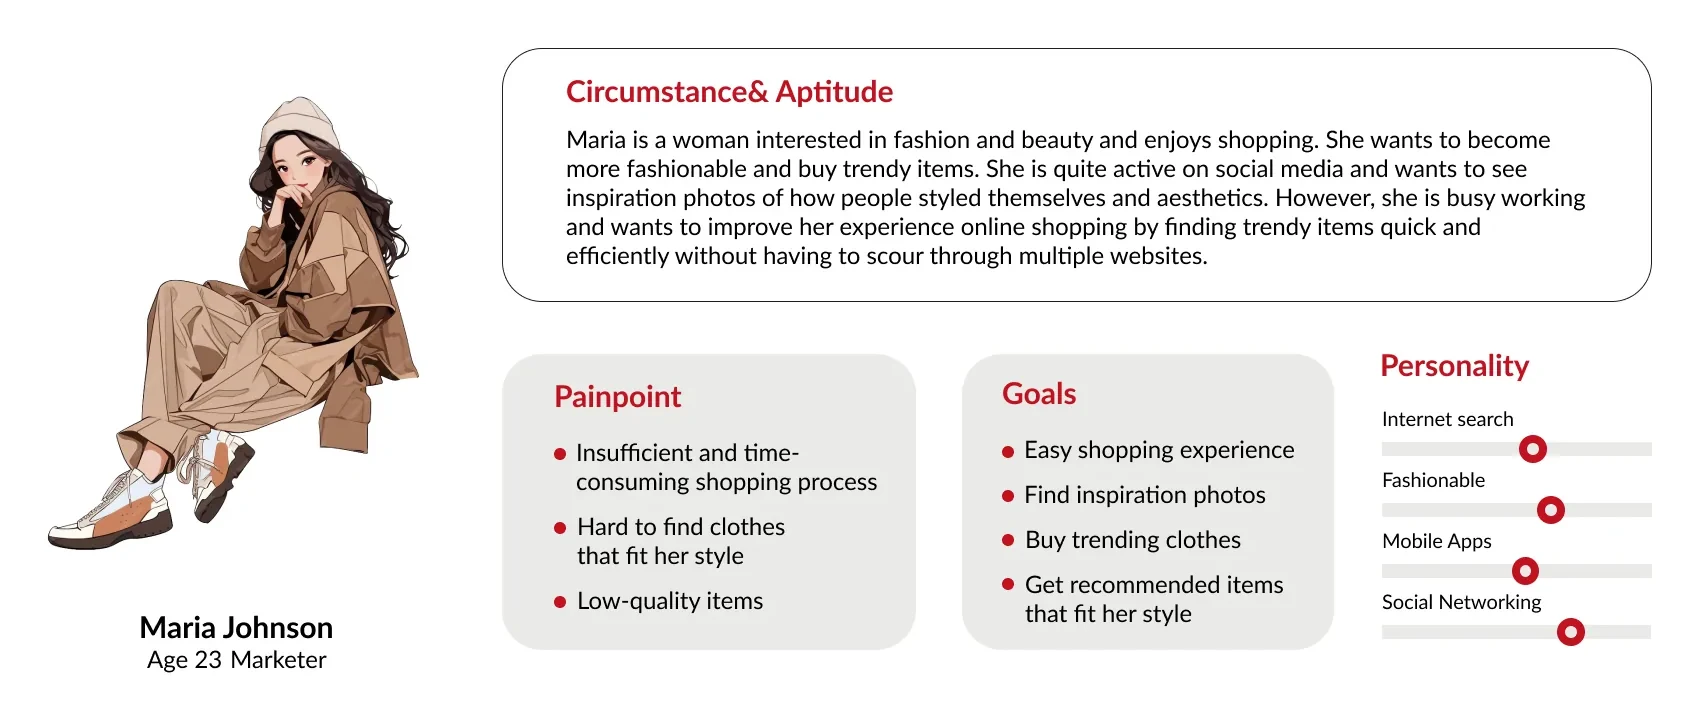
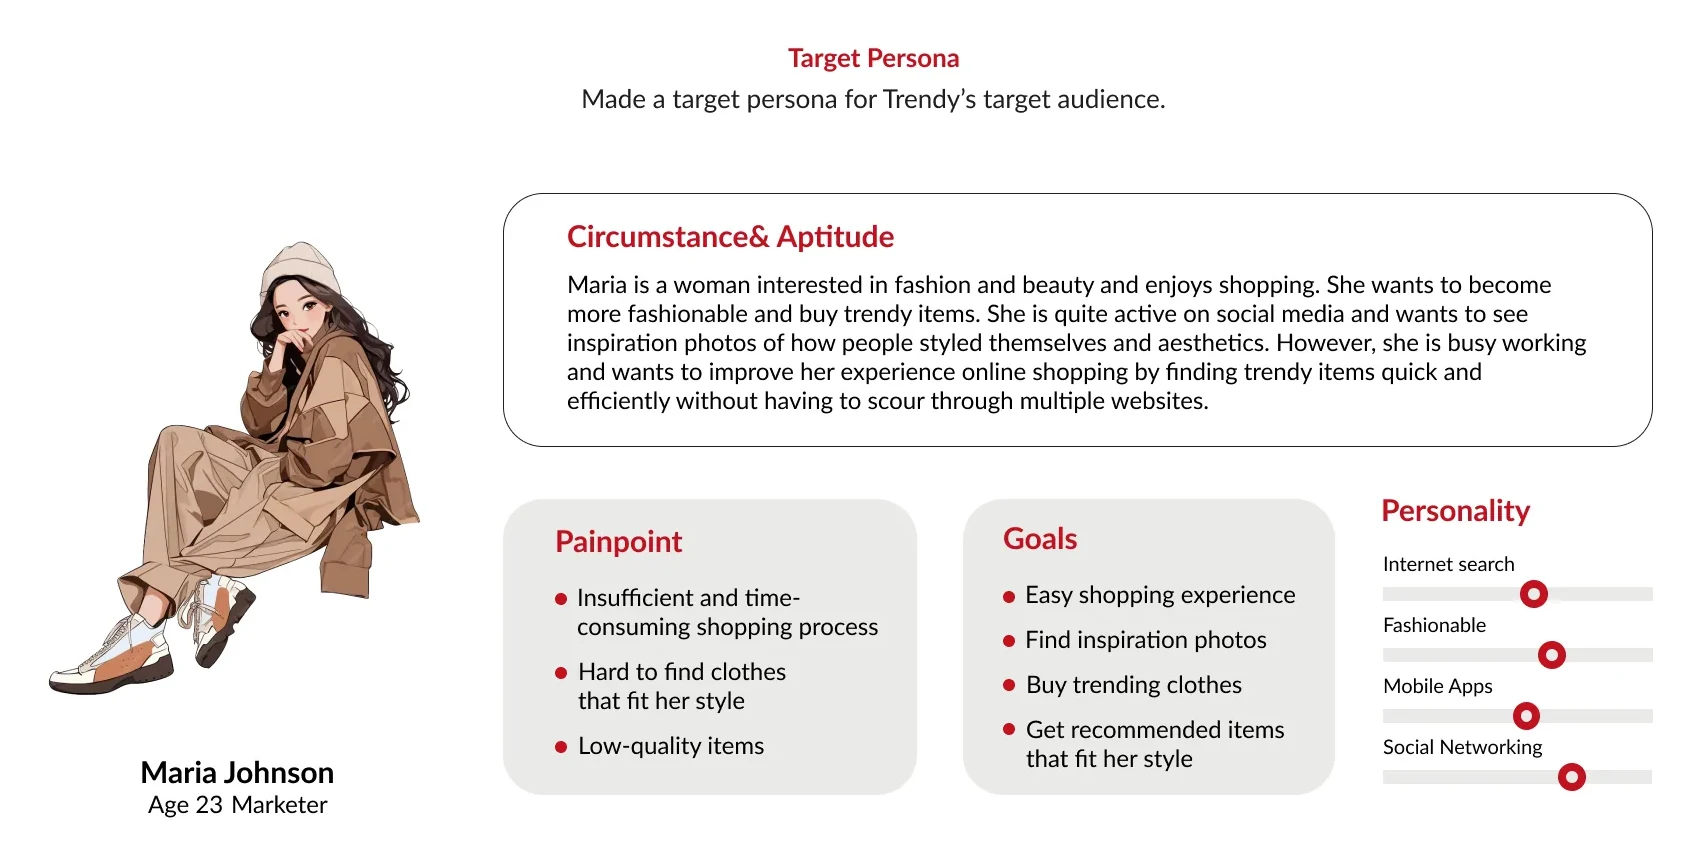
Trendy: keep section titles in the board crops; Now Institute strip drops old site
- Re-crops Brand, Persona, As-is/To-be, Competitor research and Journey map
  to include each section's title and subtitle from the case study board.
- UX page: Now Institute's thumbnail strip no longer shows the old website.

Claude-Session: https://claude.ai/code/session_01XrSCNk8CdZFL88DQkgrBgR

diff --git a/ux.html b/ux.html
@@ -27,7 +27,7 @@
 <main class="page page-page" id="ux">
 <div class="page-content">
 <header class="cs-head"><h1 class="cs-title">UX Design<span class="dot">.</span></h1><p class="cs-sub">Case studies in research, product design and building, from internships, leadership roles and team projects.</p></header>
-<div class="gproj-list gproj-list--stack"><a class="gproj" href="now-institute.html"><div class="gproj-cover gproj-cover--bleed" style="aspect-ratio:2000/1060"><img alt="Now Institute cover" loading="lazy" onerror="this.hidden=true" src="images/index/01-screenshot-2026-07-07-at-2.21.54pm.webp"/></div><div class="gproj-txt"><span class="gproj-n">(01)</span><h2 class="gproj-t">Now Institute</h2><p class="gproj-sub">Two websites for Morphosis Architects’ urban research wing</p><p class="gproj-d">Designed and vibe-coded Noto Now and the Now Institute site, from research on every project to two live launches.</p><dl class="gproj-meta"><dt>Year</dt><dd>May – Jul 2026</dd><dt>Role</dt><dd>UX Design Intern, Morphosis</dd><dt>Tools</dt><dd>Figma, Claude Code, Vercel</dd></dl><div class="gproj-strip" style="grid-template-columns:178.97fr 177.78fr 166.67fr"><img alt="" loading="lazy" src="images/now-institute/03-screenshot-1778536857657.png" style="aspect-ratio:1.7897"/><img alt="" loading="lazy" src="images/now-institute/02-screenshot-2026-07-13-at-3.52.46pm.webp" style="aspect-ratio:1.7778"/><img alt="" loading="lazy" src="images/now-institute/04-notonow.png" style="aspect-ratio:1.6667"/></div><span class="gproj-go">View case study →</span></div></a><a class="gproj" href="hfes-stg.html"><div class="gproj-cover gproj-cover--bleed" style="aspect-ratio:2000/1000"><img alt="HFES STG cover" loading="lazy" onerror="this.hidden=true" src="images/index/cover-hfes-stg.webp"/></div><div class="gproj-txt"><span class="gproj-n">(02)</span><h2 class="gproj-t">HFES STG</h2><p class="gproj-sub">A website for the Sustainability Technical Group</p><p class="gproj-d">Led a volunteer team from a 200+ member survey through card sorting, testing and launch.</p><dl class="gproj-meta"><dt>Year</dt><dd>Aug 2025 – May 2026</dd><dt>Role</dt><dd>Website Lead</dd><dt>Methods</dt><dd>Survey, card sort, usability tests</dd></dl><div class="gproj-strip" style="grid-template-columns:196.46fr 133.78fr"><img alt="" loading="lazy" src="images/hfes-stg/04-screenshot-2026-03-27-at-3.34.46pm.png" style="aspect-ratio:1.9646"/><img alt="" loading="lazy" src="images/hfes-stg/06-wireframes.png" style="aspect-ratio:1.3378"/></div><span class="gproj-go">View case study →</span></div></a><a class="gproj" href="migrant-compass.html"><div class="gproj-cover gproj-cover--bleed" style="aspect-ratio:1920/940"><img alt="Migrant Compass cover" loading="lazy" onerror="this.hidden=true" src="images/index/05-title-page1.webp?v=2"/></div><div class="gproj-txt"><span class="gproj-n">(03)</span><h2 class="gproj-t">Migrant Compass</h2><p class="gproj-sub">Real-time guidance for migrants</p><p class="gproj-d">An offline-ready app giving migrants verified safety updates and resources, built at the IDEA Lab @ Fletcher.</p><dl class="gproj-meta"><dt>Year</dt><dd>Sep – Nov 2025</dd><dt>Role</dt><dd>UX research & design</dd><dt>Tools</dt><dd>Figma</dd></dl><div class="gproj-strip" style="grid-template-columns:50.96fr 51.02fr 51.02fr 45.40fr"><img alt="" loading="lazy" src="images/migrant-compass/06-migrant-compass-mobile-app-wireframe.png" style="aspect-ratio:0.5096"/><img alt="" loading="lazy" src="images/migrant-compass/15-migrant-compass-mobile-app-wireframe.png" style="aspect-ratio:0.5102"/><img alt="" loading="lazy" src="images/migrant-compass/19-w.png" style="aspect-ratio:0.5102"/><img alt="" loading="lazy" src="images/migrant-compass/21-4.png" style="aspect-ratio:0.4540"/></div><span class="gproj-go">View case study →</span></div></a><a class="gproj" href="travel-mate.html"><div class="gproj-cover gproj-cover--bleed" style="aspect-ratio:2000/1060"><img alt="Travel Mate cover" loading="lazy" onerror="this.hidden=true" src="images/index/cover-travel-mate.webp?v=3"/></div><div class="gproj-txt"><span class="gproj-n">(04)</span><h2 class="gproj-t">Travel Mate</h2><p class="gproj-sub">Group travel planning app</p><p class="gproj-d">Search, shared itineraries and expenses for planning a Korea trip with friends, designed with developers.</p><dl class="gproj-meta"><dt>Year</dt><dd>Sep – Dec 2024</dd><dt>Role</dt><dd>UX design, design system</dd><dt>Team</dt><dd>3 designers, 2 developers</dd></dl><div class="gproj-strip" style="grid-template-columns:83.95fr 78.85fr 134.05fr"><img alt="" loading="lazy" src="images/travel-mate/08-ia.png" style="aspect-ratio:0.8395"/><img alt="" loading="lazy" src="images/travel-mate/31-sheet-stay-dates.webp" style="aspect-ratio:0.7885"/><img alt="" loading="lazy" src="images/travel-mate/32-sheet-trip-dates.webp" style="aspect-ratio:1.3405"/></div><span class="gproj-go">View case study →</span></div></a><a class="gproj" href="trendy.html"><div class="gproj-cover gproj-cover--bleed" style="aspect-ratio:1500/734"><img alt="Trendy cover" loading="lazy" onerror="this.hidden=true" src="images/trendy/01-trendy.webp?v=2"/></div><div class="gproj-txt"><span class="gproj-n">(05)</span><h2 class="gproj-t">Trendy</h2><p class="gproj-sub">Beauty & fashion trend app</p><p class="gproj-d">A solo project taking a trend-shopping app from interviews and competitor research to brand and UI.</p><dl class="gproj-meta"><dt>Year</dt><dd>Jun – Aug 2024</dd><dt>Role</dt><dd>Solo designer</dd><dt>Methods</dt><dd>Interviews, journey map</dd></dl><div class="gproj-strip" style="grid-template-columns:235.78fr 167.52fr"><img alt="" loading="lazy" src="images/trendy/05-persona.webp" style="aspect-ratio:2.3578"/><img alt="" loading="lazy" src="images/trendy/10-final-screens.webp" style="aspect-ratio:1.6752"/></div><span class="gproj-go">View case study →</span></div></a></div>
+<div class="gproj-list gproj-list--stack"><a class="gproj" href="now-institute.html"><div class="gproj-cover gproj-cover--bleed" style="aspect-ratio:2000/1060"><img alt="Now Institute cover" loading="lazy" onerror="this.hidden=true" src="images/index/01-screenshot-2026-07-07-at-2.21.54pm.webp"/></div><div class="gproj-txt"><span class="gproj-n">(01)</span><h2 class="gproj-t">Now Institute</h2><p class="gproj-sub">Two websites for Morphosis Architects’ urban research wing</p><p class="gproj-d">Designed and vibe-coded Noto Now and the Now Institute site, from research on every project to two live launches.</p><dl class="gproj-meta"><dt>Year</dt><dd>May – Jul 2026</dd><dt>Role</dt><dd>UX Design Intern, Morphosis</dd><dt>Tools</dt><dd>Figma, Claude Code, Vercel</dd></dl><div class="gproj-strip" style="grid-template-columns:177.78fr 166.67fr"><img alt="" loading="lazy" src="images/now-institute/02-screenshot-2026-07-13-at-3.52.46pm.webp" style="aspect-ratio:1.7778"/><img alt="" loading="lazy" src="images/now-institute/04-notonow.png" style="aspect-ratio:1.6667"/></div><span class="gproj-go">View case study →</span></div></a><a class="gproj" href="hfes-stg.html"><div class="gproj-cover gproj-cover--bleed" style="aspect-ratio:2000/1000"><img alt="HFES STG cover" loading="lazy" onerror="this.hidden=true" src="images/index/cover-hfes-stg.webp"/></div><div class="gproj-txt"><span class="gproj-n">(02)</span><h2 class="gproj-t">HFES STG</h2><p class="gproj-sub">A website for the Sustainability Technical Group</p><p class="gproj-d">Led a volunteer team from a 200+ member survey through card sorting, testing and launch.</p><dl class="gproj-meta"><dt>Year</dt><dd>Aug 2025 – May 2026</dd><dt>Role</dt><dd>Website Lead</dd><dt>Methods</dt><dd>Survey, card sort, usability tests</dd></dl><div class="gproj-strip" style="grid-template-columns:196.46fr 133.78fr"><img alt="" loading="lazy" src="images/hfes-stg/04-screenshot-2026-03-27-at-3.34.46pm.png" style="aspect-ratio:1.9646"/><img alt="" loading="lazy" src="images/hfes-stg/06-wireframes.png" style="aspect-ratio:1.3378"/></div><span class="gproj-go">View case study →</span></div></a><a class="gproj" href="migrant-compass.html"><div class="gproj-cover gproj-cover--bleed" style="aspect-ratio:1920/940"><img alt="Migrant Compass cover" loading="lazy" onerror="this.hidden=true" src="images/index/05-title-page1.webp?v=2"/></div><div class="gproj-txt"><span class="gproj-n">(03)</span><h2 class="gproj-t">Migrant Compass</h2><p class="gproj-sub">Real-time guidance for migrants</p><p class="gproj-d">An offline-ready app giving migrants verified safety updates and resources, built at the IDEA Lab @ Fletcher.</p><dl class="gproj-meta"><dt>Year</dt><dd>Sep – Nov 2025</dd><dt>Role</dt><dd>UX research & design</dd><dt>Tools</dt><dd>Figma</dd></dl><div class="gproj-strip" style="grid-template-columns:50.96fr 51.02fr 51.02fr 45.40fr"><img alt="" loading="lazy" src="images/migrant-compass/06-migrant-compass-mobile-app-wireframe.png" style="aspect-ratio:0.5096"/><img alt="" loading="lazy" src="images/migrant-compass/15-migrant-compass-mobile-app-wireframe.png" style="aspect-ratio:0.5102"/><img alt="" loading="lazy" src="images/migrant-compass/19-w.png" style="aspect-ratio:0.5102"/><img alt="" loading="lazy" src="images/migrant-compass/21-4.png" style="aspect-ratio:0.4540"/></div><span class="gproj-go">View case study →</span></div></a><a class="gproj" href="travel-mate.html"><div class="gproj-cover gproj-cover--bleed" style="aspect-ratio:2000/1060"><img alt="Travel Mate cover" loading="lazy" onerror="this.hidden=true" src="images/index/cover-travel-mate.webp?v=3"/></div><div class="gproj-txt"><span class="gproj-n">(04)</span><h2 class="gproj-t">Travel Mate</h2><p class="gproj-sub">Group travel planning app</p><p class="gproj-d">Search, shared itineraries and expenses for planning a Korea trip with friends, designed with developers.</p><dl class="gproj-meta"><dt>Year</dt><dd>Sep – Dec 2024</dd><dt>Role</dt><dd>UX design, design system</dd><dt>Team</dt><dd>3 designers, 2 developers</dd></dl><div class="gproj-strip" style="grid-template-columns:83.95fr 78.85fr 134.05fr"><img alt="" loading="lazy" src="images/travel-mate/08-ia.png" style="aspect-ratio:0.8395"/><img alt="" loading="lazy" src="images/travel-mate/31-sheet-stay-dates.webp" style="aspect-ratio:0.7885"/><img alt="" loading="lazy" src="images/travel-mate/32-sheet-trip-dates.webp" style="aspect-ratio:1.3405"/></div><span class="gproj-go">View case study →</span></div></a><a class="gproj" href="trendy.html"><div class="gproj-cover gproj-cover--bleed" style="aspect-ratio:1500/734"><img alt="Trendy cover" loading="lazy" onerror="this.hidden=true" src="images/trendy/01-trendy.webp?v=2"/></div><div class="gproj-txt"><span class="gproj-n">(05)</span><h2 class="gproj-t">Trendy</h2><p class="gproj-sub">Beauty & fashion trend app</p><p class="gproj-d">A solo project taking a trend-shopping app from interviews and competitor research to brand and UI.</p><dl class="gproj-meta"><dt>Year</dt><dd>Jun – Aug 2024</dd><dt>Role</dt><dd>Solo designer</dd><dt>Methods</dt><dd>Interviews, journey map</dd></dl><div class="gproj-strip" style="grid-template-columns:196.42fr 167.52fr"><img alt="" loading="lazy" src="images/trendy/05-persona.webp?v=2" style="aspect-ratio:1.9642"/><img alt="" loading="lazy" src="images/trendy/10-final-screens.webp" style="aspect-ratio:1.6752"/></div><span class="gproj-go">View case study →</span></div></a></div>
 <footer class="site-foot" id="contact">
 <div class="foot-row"><span>Jasmine Kim, UI/UX &amp; Graphic Designer</span>
 <span class="foot-links"><a href="mailto:jasminekim535@gmail.com">Email ↗</a><a href="https://www.linkedin.com/in/jasmine-kim-22838a339/" rel="noopener" target="_blank">LinkedIn ↗</a><a href="https://drive.google.com/file/d/1OOqGdKUFcIr9i4K3hlURFipVqCy_xz__/view?usp=sharing" rel="noopener" target="_blank">Resume ↗</a></span></div>

diff --git a/trendy.html b/trendy.html
@@ -39,25 +39,25 @@
 <figure class="fg"><div class="fg-box" style="aspect-ratio:1683/921"><img alt="Interview quotes: shopping is so difficult" loading="lazy" onerror="this.hidden=true" src="images/trendy/04-interviews.webp"/></div></figure></section>
 <section class="ni-sec"><h2 class="ni-h">Competitor research</h2>
 <p class="ni-note">I compared Pinterest, Instagram and Cider across home, search, categories and purchase.</p>
-<figure class="fg"><div class="fg-box" style="aspect-ratio:1762/1160"><img alt="Competitor research: Pinterest, Instagram and Cider" loading="lazy" onerror="this.hidden=true" src="images/trendy/07-competitor-research.webp"/></div></figure>
+<figure class="fg"><div class="fg-box" style="aspect-ratio:1762/1333"><img alt="Competitor research: Pinterest, Instagram and Cider" loading="lazy" onerror="this.hidden=true" src="images/trendy/07-competitor-research.webp?v=2"/></div></figure>
 <div class="decs tr-ins"><div class="dec dec--head"><p>Insight</p><span></span><p>For Trendy</p></div>
 <div class="dec"><p class="dec-i">Saved inspiration gets lost in one long list</p><span aria-hidden="true" class="dec-arrow">→</span><p class="dec-d">Let users sort saved images into boards</p></div>
 <div class="dec"><p class="dec-i">Products in inspiration photos can’t be bought</p><span aria-hidden="true" class="dec-arrow">→</span><p class="dec-d">Make products in reference photos purchasable</p></div>
 <div class="dec"><p class="dec-i">Trends are hard to browse by type</p><span aria-hidden="true" class="dec-arrow">→</span><p class="dec-d">Categorize trends, with images of how people style them</p></div>
 </div></section>
 <section class="ni-sec"><h2 class="ni-h">Who it’s for</h2>
-<figure class="fg"><div class="fg-box" style="aspect-ratio:1700/721"><img alt="Target persona: Maria Johnson, 23, marketer" loading="lazy" onerror="this.hidden=true" src="images/trendy/05-persona.webp"/></div></figure>
+<figure class="fg"><div class="fg-box" style="aspect-ratio:1701/866"><img alt="Target persona: Maria Johnson, 23, marketer" loading="lazy" onerror="this.hidden=true" src="images/trendy/05-persona.webp?v=2"/></div></figure>
 <h3 class="ni-h ni-h--sm tr-sub">As-is → to-be</h3>
-<figure class="fg"><div class="fg-box" style="aspect-ratio:1700/715"><img alt="As-is versus to-be" loading="lazy" onerror="this.hidden=true" src="images/trendy/06-as-is-to-be.webp"/></div></figure></section>
+<figure class="fg"><div class="fg-box" style="aspect-ratio:1796/860"><img alt="As-is versus to-be" loading="lazy" onerror="this.hidden=true" src="images/trendy/06-as-is-to-be.webp?v=2"/></div></figure></section>
 <section class="ni-sec"><h2 class="ni-h">User journey</h2>
 <p class="ni-note">Mapping emotions from opening the app to buying showed where frustration peaks, and where Trendy can help.</p>
-<figure class="fg"><div class="fg-box" style="aspect-ratio:1700/899"><img alt="User journey map" loading="lazy" onerror="this.hidden=true" src="images/trendy/08-journey-map.webp"/></div></figure></section>
+<figure class="fg"><div class="fg-box" style="aspect-ratio:1700/1040"><img alt="User journey map" loading="lazy" onerror="this.hidden=true" src="images/trendy/08-journey-map.webp?v=2"/></div></figure></section>
 <section class="ni-sec"><h2 class="ni-h">The solution</h2>
 <figure class="fg"><div class="fg-box" style="aspect-ratio:1844/995"><img alt="Problem solving: popular brands in one app, categorized trends and tagged products" loading="lazy" onerror="this.hidden=true" src="images/trendy/09-problem-solving.webp"/></div></figure>
 <div class="features" style="--n:3"><div class="feature"><span class="feat-n">01</span><h3>Discover trends</h3><p>Popular brands and the latest products in one place.</p></div><div class="feature"><span class="feat-n">02</span><h3>Find inspiration</h3><p>Trends sorted into categories, saved to your own boards.</p></div><div class="feature"><span class="feat-n">03</span><h3>Shop seamlessly</h3><p>Products tagged in photos, from trend to purchase.</p></div></div></section>
 <section class="ni-sec"><h2 class="ni-h">Brand</h2>
 <p class="ni-note">A deep red that is bold and trendy, with Lato for clean, readable type.</p>
-<figure class="fg"><div class="fg-box" style="aspect-ratio:1644/482"><img alt="Fonts and colors" loading="lazy" onerror="this.hidden=true" src="images/trendy/03-brand.webp"/></div></figure></section>
+<figure class="fg"><div class="fg-box" style="aspect-ratio:1644/626"><img alt="Fonts and colors" loading="lazy" onerror="this.hidden=true" src="images/trendy/03-brand.webp?v=2"/></div></figure></section>
 <section class="ni-sec"><h2 class="ni-h">Final screens</h2>
 <figure class="fg"><div class="fg-box" style="aspect-ratio:1888/1127"><img alt="Trendy mobile screens" loading="lazy" onerror="this.hidden=true" src="images/trendy/10-final-screens.webp"/></div></figure>
 <details class="more"><summary>View the full case study board</summary><figure class="fg tr-board"><div class="fg-box" style="aspect-ratio:1920/10179"><img alt="Trendy full case study board" loading="lazy" onerror="this.hidden=true" src="images/trendy/02-title-pa2ge.webp"/></div></figure></details></section>

diff --git a/images/MANIFEST.md b/images/MANIFEST.md
@@ -102,12 +102,12 @@ Until a file exists, the page shows a blank placeholder box at the correct size.
 |---|---|---|
 | `images/trendy/01-trendy.png` | trendy.png | 1909×1088 |
 | `images/trendy/02-title-pa2ge.png` | title_pa2ge.png | 1920×10179 |
-| `images/trendy/03-brand.webp` | title_pa2ge.png, brand section | 1644×482 |
+| `images/trendy/03-brand.webp` | title_pa2ge.png, brand section | 1644×626 |
 | `images/trendy/04-interviews.webp` | title_pa2ge.png, interviews section | 1683×921 |
-| `images/trendy/05-persona.webp` | title_pa2ge.png, persona section | 1700×721 |
-| `images/trendy/06-as-is-to-be.webp` | title_pa2ge.png, as is to be section | 1700×715 |
-| `images/trendy/07-competitor-research.webp` | title_pa2ge.png, competitor research section | 1762×1160 |
-| `images/trendy/08-journey-map.webp` | title_pa2ge.png, journey map section | 1700×899 |
+| `images/trendy/05-persona.webp` | title_pa2ge.png, persona section | 1701×866 |
+| `images/trendy/06-as-is-to-be.webp` | title_pa2ge.png, as is to be section | 1796×860 |
+| `images/trendy/07-competitor-research.webp` | title_pa2ge.png, competitor research section | 1762×1333 |
+| `images/trendy/08-journey-map.webp` | title_pa2ge.png, journey map section | 1700×1040 |
 | `images/trendy/09-problem-solving.webp` | title_pa2ge.png, problem solving section | 1844×995 |
 | `images/trendy/10-final-screens.webp` | title_pa2ge.png, final screens section | 1888×1127 |
 
